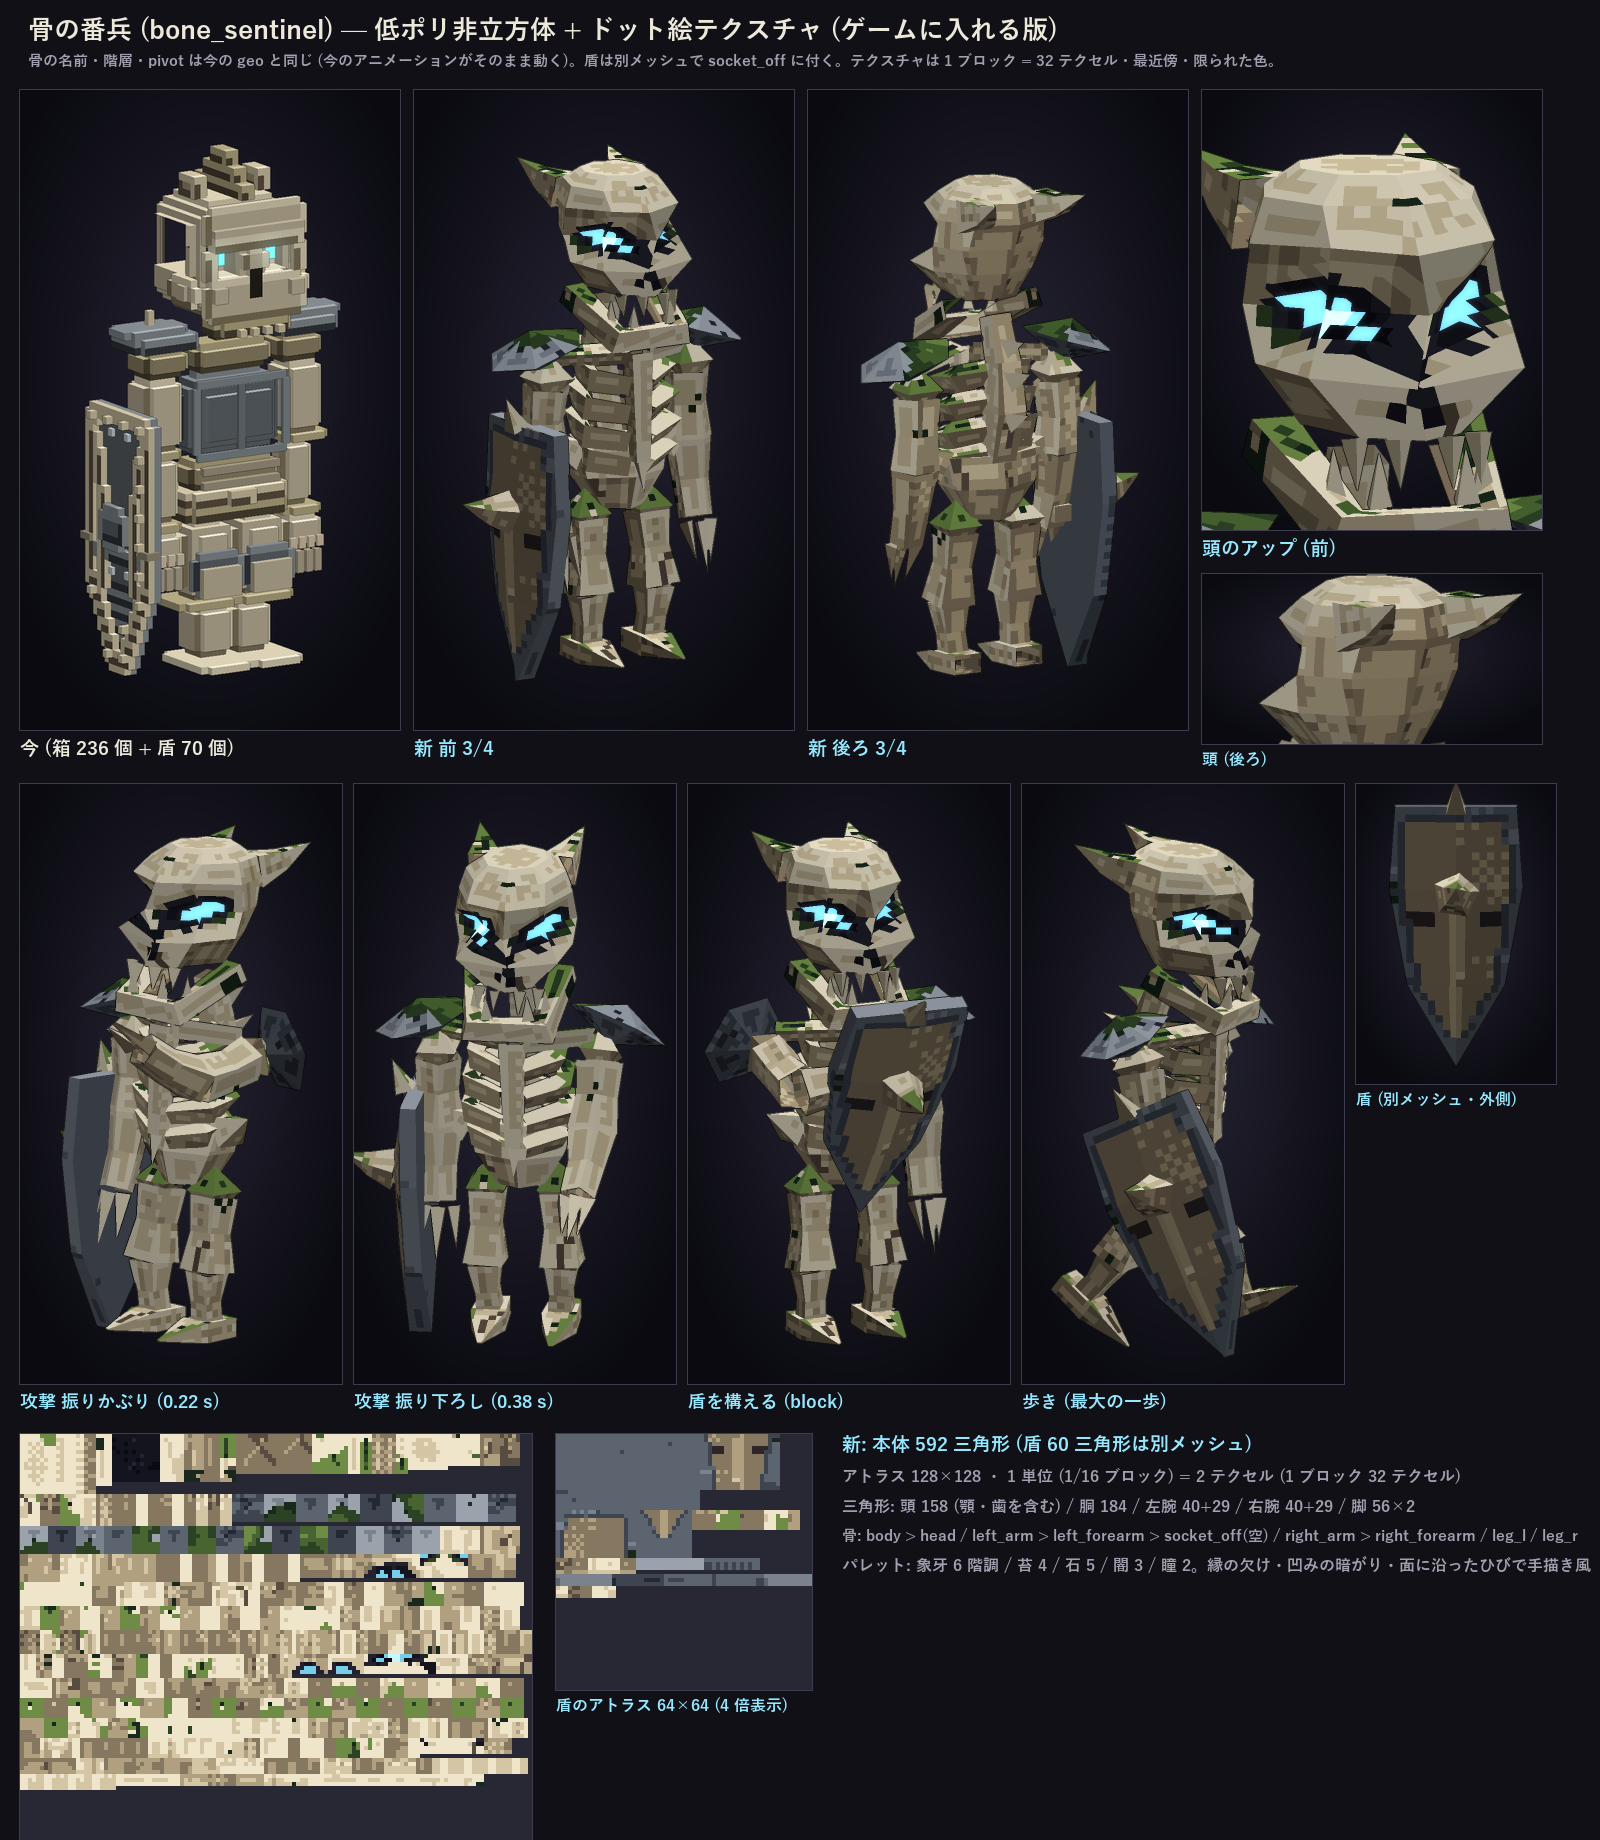
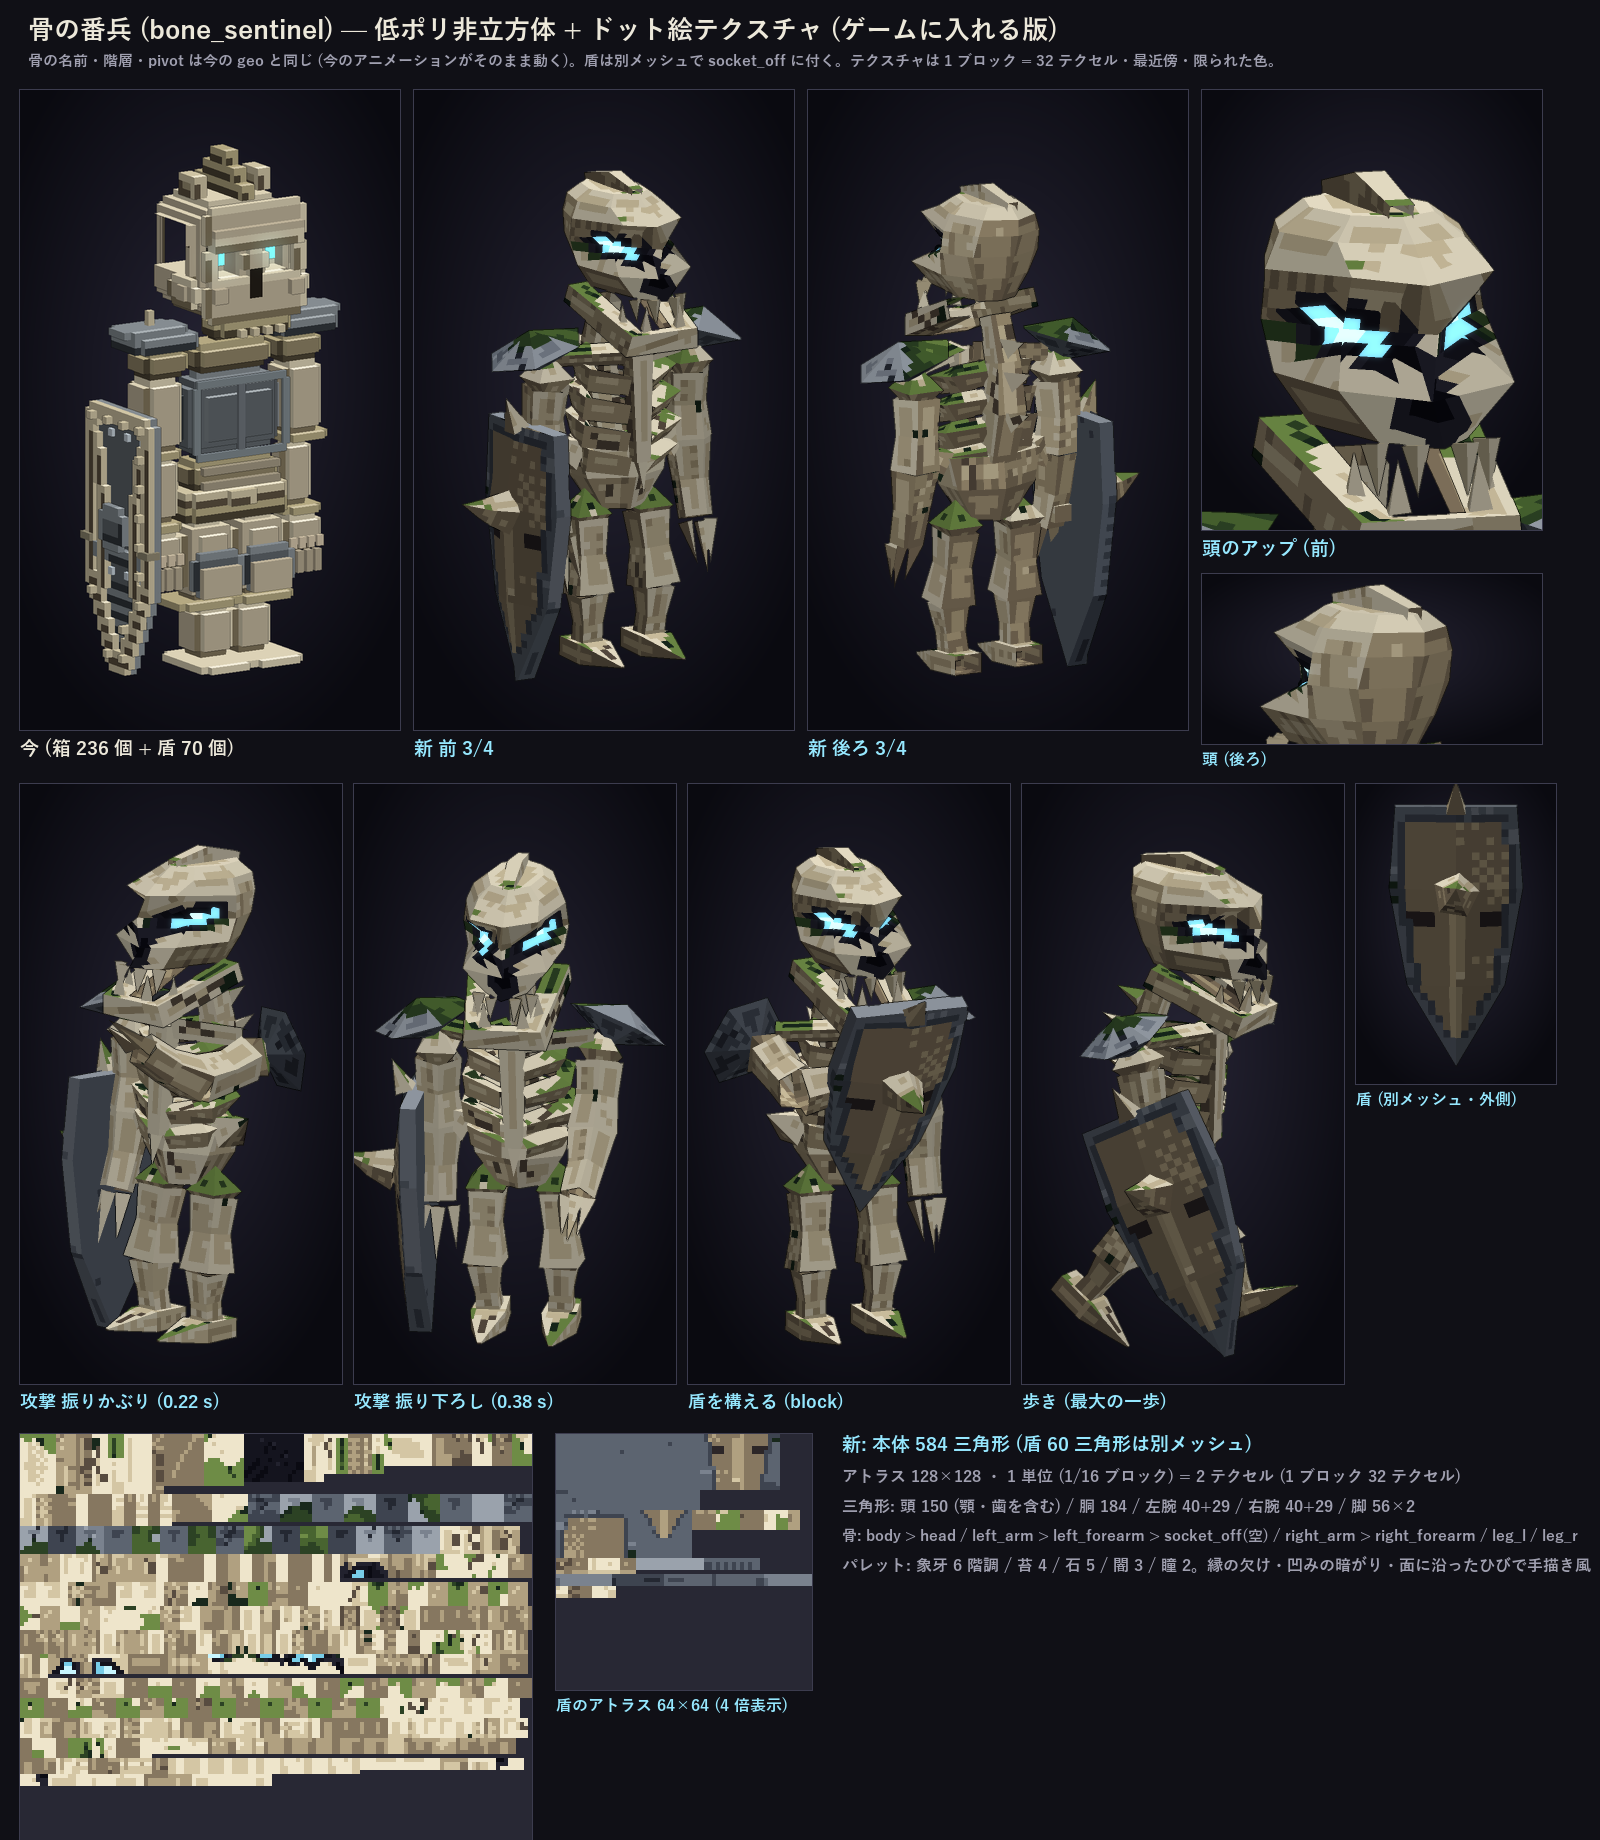
Bone sentinel: longer heavier skull, crest instead of horns, cleaner nose notch, thinner cracks

diff --git a/tools/rough/lowpoly/bone_sentinel_lp.py b/tools/rough/lowpoly/bone_sentinel_lp.py
@@ -100,16 +100,15 @@ def paint(faces, size, P, N, M, extras=None):
     # ひび: 面の中を骨の長さの向き (島の v 方向) にくねらせて入れる。形に沿って 1 枚の面の中で止まる
     hf = hash1(fi, 5)
     nverts = np.array([len(f.verts) for f in faces])[fi]
-    crack_on = (hf < 0.30) & (area > 30) & (mats != "tooth") & (nverts <= 4)
+    crack_on = (hf < 0.24) & (area > np.where(bones == "body", 14, 30)) & (mats != "tooth") & (nverts <= 4)
     c0 = (hash1(fi, 6) * np.maximum(CW - 2, 1)).astype(int) + 1
     v0 = (hash1(fi, 7) * 0.35 * CH).astype(int)
-    v1 = v0 + (CH * (0.4 + 0.4 * hash1(fi, 8))).astype(int)
-    zig = np.round(1.1 * np.sin(LV * 0.8 + fi * 1.7)).astype(int)
+    v1 = v0 + (CH * (0.35 + 0.35 * hash1(fi, 8))).astype(int)
+    zig = np.round(0.62 * np.sin(LV * 0.7 + fi * 1.7)).astype(int)
     seg = INS & (LV >= v0) & (LV <= v1)
     on_crack = crack_on & seg & (LU == c0 + zig)
     idx = np.where(on_crack, 1, idx)
     nb = crack_on & seg & (LU == c0 + zig + 1) & (lit > -0.2)
-    idx = np.where(nb & ~on_crack, np.minimum(idx + 1, 5), idx)
     idx = np.clip(idx, 0, 5)
     col = BONE[idx].astype(float)
 
@@ -117,7 +116,7 @@ def paint(faces, size, P, N, M, extras=None):
     mn = 0.62 * vnoise(P * 0.21 + 21, 4) + 0.38 * vnoise(P * 0.52 + 7, 9)
     mscore = mn + 0.34 * np.clip(ny, 0, 1) + 0.36 * near_concave + 0.12 * (1 - np.clip(P[..., 1] / 34, 0, 1))
     thr = 0.90
-    moss = (mscore + 0.06 * bay > thr) & (ny > -0.25) & (mats != "tooth") & (mats != "stone")
+    moss = (mscore + 0.06 * bay + 0.07 * (bones == "body") > thr) & (ny > -0.25) & (mats != "tooth") & (mats != "stone")
     depth = np.clip(((mscore - thr) * 7 + 0.4 * lit + 0.6 * bay), 0, 3.99)
     midx = np.clip(np.floor(depth).astype(int), 0, 3)
     midx = np.where(convex & (ny > 0.3), 3, midx)
@@ -170,20 +169,22 @@ def paint(faces, size, P, N, M, extras=None):
         dx = (P[..., 0] - c[0]) * s
         dy = P[..., 1] - c[1]
         dyy = dy - 0.34 * dx                                      # 目尻が上がる
-        r = np.sqrt((dx / 1.7) ** 2 + (dyy / 1.12) ** 2)
+        r = np.sqrt((dx / 1.5) ** 2 + (dyy / 1.0) ** 2)
         sock = hd & (r + 0.06 * bay < 1.0)
         dkv = np.clip(np.floor(2.9 - (1.0 - r) * 4.0 + 0.4 * bay).astype(int), 0, 2)
         col = np.where(sock[..., None], DARK[dkv], col)
-        pr = np.sqrt(((dx - 0.2) / 0.95) ** 2 + (dyy / 0.46) ** 2)
+        pr = np.sqrt(((dx - 0.2) / 0.85) ** 2 + (dyy / 0.42) ** 2)
         pup = hd & (pr + 0.05 * bay < 1.0)
         col = np.where(pup[..., None], np.where(pr[..., None] < 0.5, PUPIL[1], PUPIL[0]), col)
         glow |= pup
     if "nose" in extras:
         c = extras["nose"]
-        t = np.clip((P[..., 1] - (c[1] - 1.0)) / 2.0, -1, 2)
-        hw = 0.62 * (1 - t) + 0.12
-        nz = hd & (np.abs(P[..., 0] - c[0]) < hw + 0.05 * bay) & (t > 0) & (t < 1.0)
-        col = np.where(nz[..., None], DARK[np.clip(np.floor(1.0 + 1.2 * hash1(LU + LV * 5 + fi, 4)).astype(int), 0, 2)], col)
+        t = (P[..., 1] - (c[1] - 0.8)) / 1.6
+        ax = np.abs(P[..., 0] - c[0])
+        core = hd & (ax < 0.5 * (1 - t) + 0.08) & (t > 0) & (t < 1.0)
+        rim = hd & (ax < 0.5 * (1 - t) + 0.62) & (t > -0.3) & (t < 1.25) & ~core
+        col = np.where(rim[..., None], DARK[2], col)
+        col = np.where(core[..., None], DARK[0], col)
 
     col = np.clip(col, 0, 255)
     img = np.zeros((H, W, 4), np.uint8)

diff --git a/tools/rough/lowpoly/bone_sentinel_model.py b/tools/rough/lowpoly/bone_sentinel_model.py
@@ -41,41 +41,40 @@ def build_model(report=None):
 
     # ================================================================ 頭 (クジラの骨の頭蓋)
     R = [
-        ring(33.6, 2.2, -2.4, 2.6, 0.3),
-        ring(32.8, 3.4, -3.5, 3.8, 0.25),
-        ring(31.4, 3.9, -4.1, 4.2, 0.15),
-        ring(29.6, 4.2, -4.6, 3.7, 0.0),
-        ring(27.8, 3.4, -5.0, 3.0, 0.0),
-        ring(25.8, 2.3, -4.8, 1.8, 0.0),
+        ring(32.4, 1.9, -3.0, 3.0, 0.3),
+        ring(31.7, 2.9, -4.0, 3.9, 0.25),
+        ring(30.6, 3.4, -4.8, 4.0, 0.15),
+        ring(29.1, 3.6, -5.4, 3.6, 0.0),
+        ring(27.5, 2.9, -6.3, 3.0, 0.0),
+        ring(25.8, 2.0, -6.4, 2.0, 0.0),
     ]
-    # 眉の張り出し・鼻筋・頬骨・眼窩のへこみ
-    R[2][0] += V(0, 0.0, -0.2)
-    R[3][0] += V(0, 0.1, -0.5)                 # 鼻筋
-    R[4][0] += V(0, -0.5, 0.95)                # 鼻の穴
+    # 重い眉・鼻筋・頬骨・眼窩のへこみ
+    R[2][0] += V(0, 0.0, -0.4)
+    R[3][0] += V(0, 0.1, -0.4)                 # 鼻筋
+    R[4][0] += V(0, -0.4, 0.9)                 # 鼻の切れ込み
     for s, k in ((1, 1), (-1, 7)):
-        R[3][k] += V(-s * 0.9, -0.1, 1.7)      # 眼窩
-        R[4][k] += V(s * 1.1, 0.0, -0.45)      # 頬骨
-        R[2][k] += V(-s * 0.1, 0.3, -0.9)      # 眉
-        R[4][2 if s > 0 else 6] += V(s * 0.5, 0.0, -0.3)
+        R[3][k] += V(-s * 0.8, -0.1, 1.6)      # 眼窩
+        R[4][k] += V(s * 0.8, 0.0, -0.4)       # 頬骨
+        R[2][k] += V(-s * 0.1, 0.3, -1.3)      # 眉 (重く張り出す)
+        R[4][2 if s > 0 else 6] += V(s * 0.4, 0.0, -0.3)
     extras["eyes"] = [R[3][1].copy() + V(0, 0, -0.4), R[3][7].copy() + V(0, 0, -0.4)]
     extras["nose"] = R[4][0].copy() + V(0, 0.2, 0)
     F += loft("head", "bone", R, caps=("bone", "mouth"))
     mark("skull")
-    # 背へ流れる骨の角 (二本だけ)
-    for s in (-1, 1):
-        F += spike("head", "bone", (s * 2.5, 32.0, 2.4), (s * 0.15, 0.1, 1.0), 4.6, 1.6, sides=4, rings=2,
-                   bend=(s * 0.4, 1.1, 0.0))
-    mark("horns")
+    # 頭蓋の上を前後に走る低い骨の稜 (角は付けない)
+    F += tube("head", "bone", [(0, 32.4, -2.6), (0, 32.9, 0.2), (0, 32.4, 3.4)], ra=[0.5, 0.75, 0.5], rb=[0.55, 0.7, 0.55],
+              sides=4, hint=(0, 1, 0))
+    mark("crest")
     # 歯 (上)
     for s in (-1, 1):
-        for x, z in ((0.85, -4.7), (2.0, -4.0)):
+        for x, z in ((0.8, -6.1), (1.8, -5.3)):
             F += spike("head", "tooth", (s * x, 25.9, z), (0, -1, -0.12), 1.6, 0.5, sides=3, rings=1)
     # 顎 (U 字の骨) と下の歯
-    jaw = [(-3.0, 25.4, 0.9), (-2.3, 22.9, -3.9), (2.3, 22.9, -3.9), (3.0, 25.4, 0.9)]
+    jaw = [(-2.7, 25.4, 0.9), (-2.0, 22.9, -5.4), (2.0, 22.9, -5.4), (2.7, 25.4, 0.9)]
     F += tube("head", "bone", jaw, ra=[0.95, 1.05, 1.05, 0.95], rb=[1.1, 1.2, 1.2, 1.1], sides=4, hint=(0, 1, 0),
               axis_fn=lambda p: np.array([0, p[1] + 0.3, p[2] + 1.5]), hide_cos=0.7)
     for s in (-1, 1):
-        for x, z in ((1.4, -4.3), (2.4, -3.0)):
+        for x, z in ((1.3, -5.7), (2.1, -4.0)):
             F += spike("head", "tooth", (s * x, 23.8, z), (0, 1, -0.1), 1.7, 0.5, sides=3, rings=1)
     mark("jaw_teeth")
 
